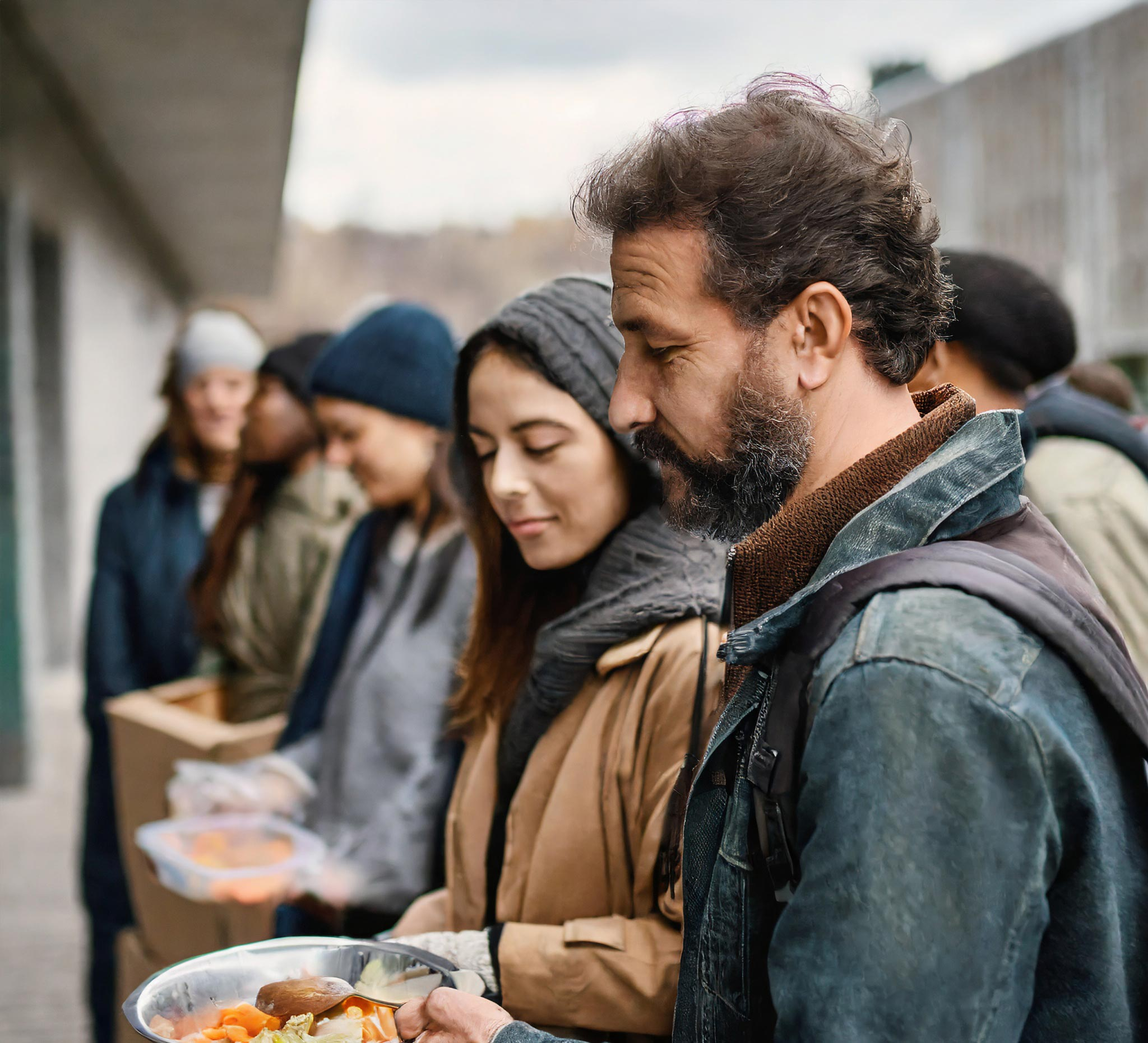
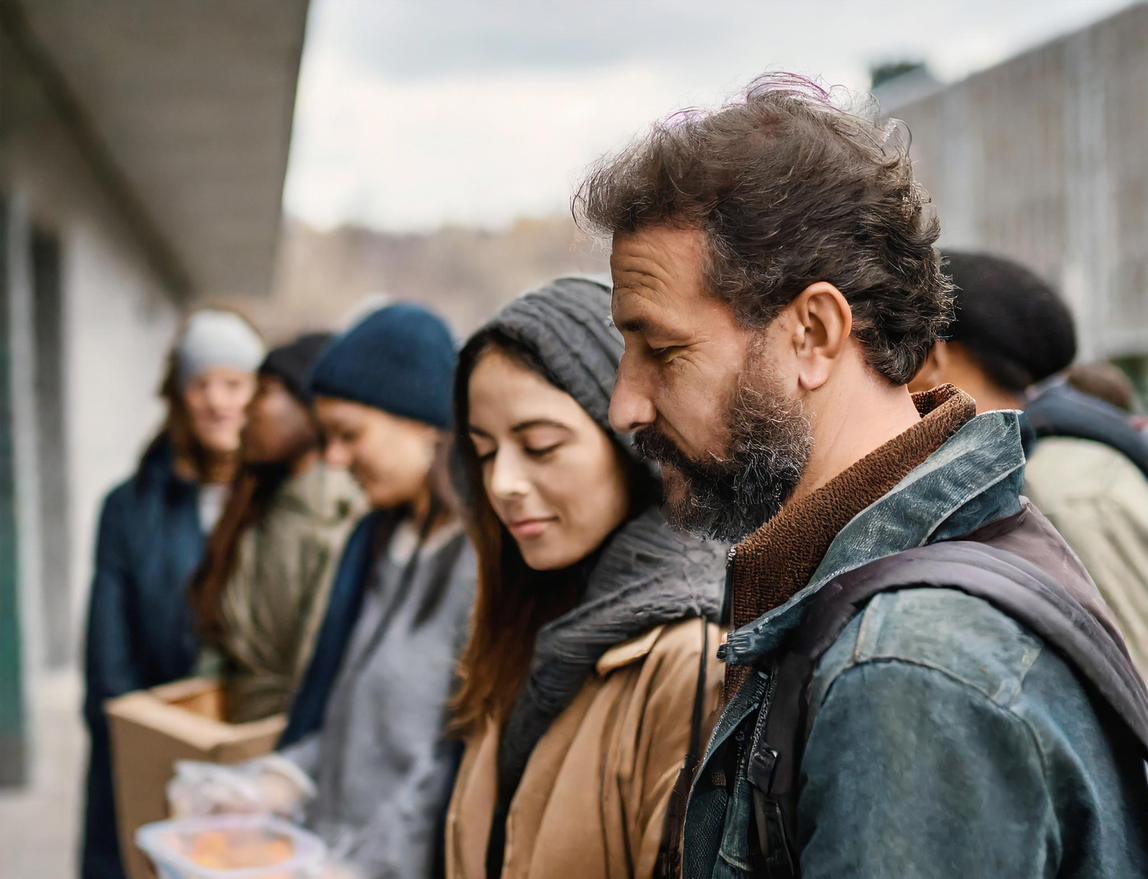
adjusting slider images

diff --git a/src/Components/Homepage/Slider/Slider.jsx b/src/Components/Homepage/Slider/Slider.jsx
@@ -38,7 +38,7 @@ const Slider = () => {
 
       <img
         className={`w-full h-full object-cover relative float-right ${
-          currentSlideIndex === 0 ? "object-center" : ""
+          currentSlideIndex === 0 ? "object-left" : ""
         }`}
         src={slides[currentSlideIndex]}
         alt="Keelworks Slides"
